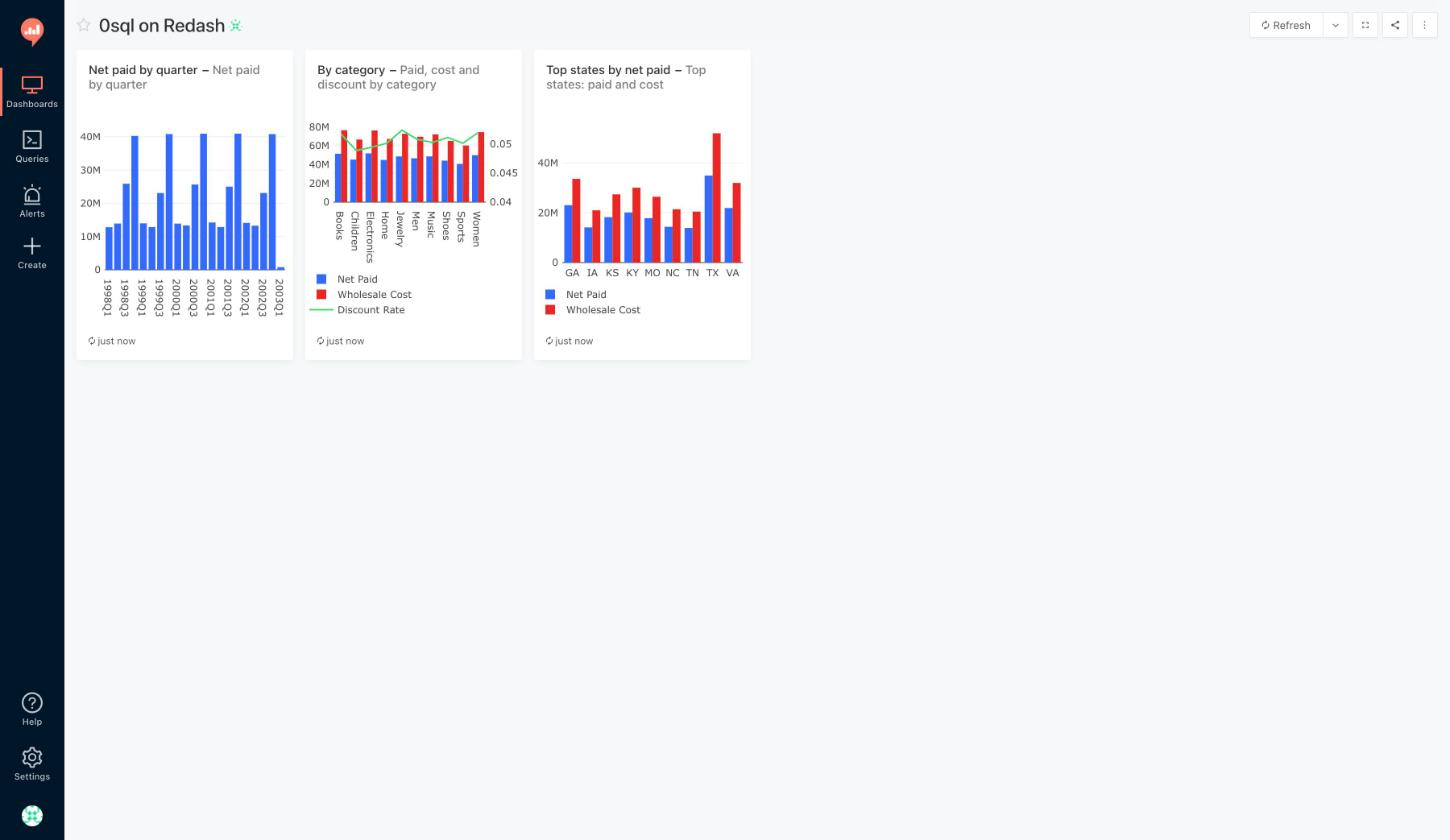
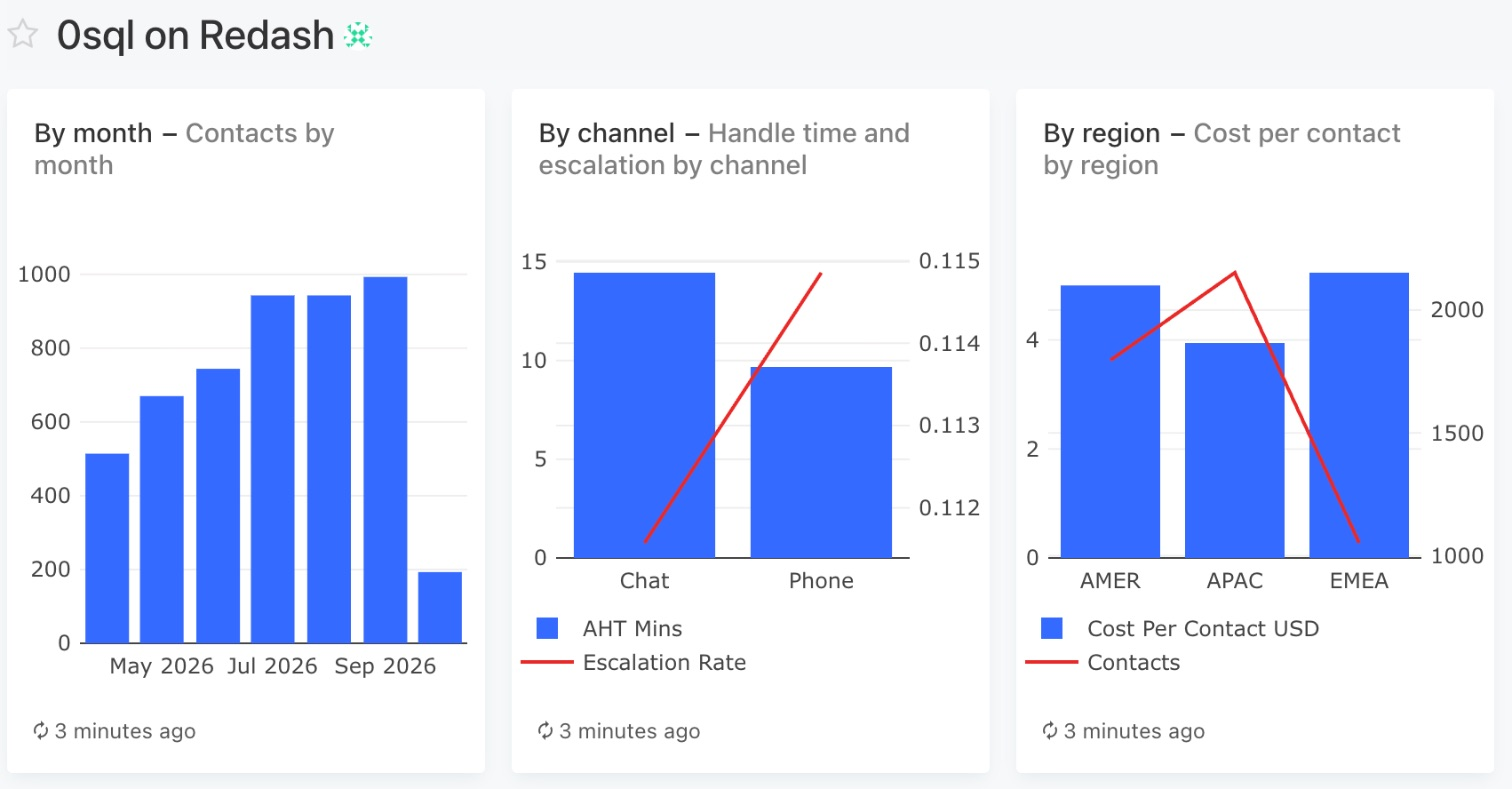
Release polish: real screenshots, cleaner tiles, install from git
The three screenshots were still the TPC-DS dashboard from the first
commit, which is the first thing the README shows and the one thing in
it that was no longer true. Retaken against the customer-service demo.

Two chart fixes they made obvious. A month is a date, so that axis is
datetime now instead of category, where every label had been a full
timestamp. And the chart titles were the query titles, so each tile read
"Contacts by month - Contacts by month"; they are "By month", "By
channel" and "By region" now.

Installing needs no package index: pip builds this repository straight
from git, checked against the stock redash image, where it registers as
"0sql semantic layer" at 0.1.0. The README pins the tag.

Two doc bugs: the data source type was still called "0sql" in one place
after the rename, and .env.example claimed ad-hoc calculated fields need
0.6.1, which is wrong. They plan fine on 0.6.0.

diff --git a/README.md b/README.md
@@ -61,7 +61,8 @@ links. `docker compose down -v` resets.
 
 ## What you get in Redash
 
-**A new data source type, "0sql".** Point it at a 0sql server and a project.
+**A new data source type, "0sql semantic layer".** Point it at a 0sql server
+and a project.
 The schema sidebar lists the model's dimensions and measures per table, and
 autocompletes them, instead of raw warehouse columns.
 
@@ -94,7 +95,7 @@ that group, runs the same saved query as the admin and gets AMER. A user with
 no region tag gets `WHERE 1 = 0`, because the policy denies the unresolved
 case. Redash admins plan as system admins and bypass it.
 
-![the same saved query, run by Dana](docs/rls.png)
+![the same saved query, run by Dana](docs/rls.jpg)
 
 ```yaml
 # customer-service/security.yml
@@ -137,13 +138,17 @@ does exactly this, with a plain Redash DuckDB data source as the warehouse.
 ## Install into an existing Redash
 
 The runner is one module with no dependency Redash does not already have.
-Add it to your Redash image, or `pip install redash-zsql` into its virtualenv:
+pip installs it straight from this repository, so there is nothing to fetch
+from a package index:
 
 ```dockerfile
 FROM redash/redash:26.9.0
-RUN pip install --no-cache-dir redash-zsql
+RUN pip install --no-cache-dir "git+https://github.com/stratasite/redash-0sql.git@v0.1.0"
 ENV REDASH_ADDITIONAL_QUERY_RUNNERS=redash_zsql
 ```
+
+Pin the tag, as above, so an image rebuild does not silently move versions.
+Drop `@v0.1.0` to track `main`.
 
 Redash in this version loads runners from that variable rather than from
 entry points, so the install and the variable are both needed. Set it on the
@@ -194,4 +199,4 @@ compose.yaml       the stack; .env is written by demo.sh
 demo.sh            start, seed, dashboard
 ```
 
-MIT, like both projects it joins.
+MIT, like the projects it joins.

diff --git a/README-pypi.md b/README-pypi.md
@@ -16,7 +16,7 @@ planned statement under the results.
 
 ```dockerfile
 FROM redash/redash:26.9.0
-RUN pip install --no-cache-dir redash-zsql
+RUN pip install --no-cache-dir "git+https://github.com/stratasite/redash-0sql.git@v0.1.0"
 ENV REDASH_ADDITIONAL_QUERY_RUNNERS=redash_zsql
 ```
 
